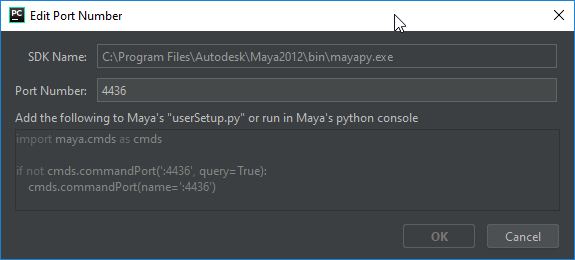
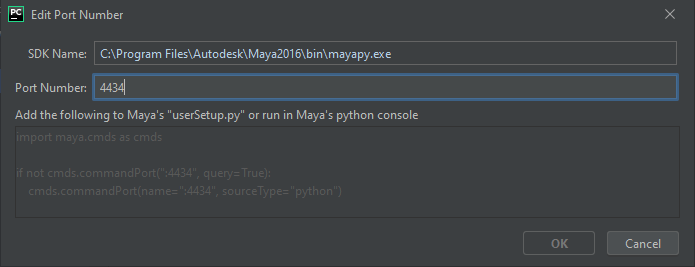
updatrd changelog and readme

diff --git a/src/main/kotlin/resources/PythonStrings.kt b/src/main/kotlin/resources/PythonStrings.kt
@@ -7,7 +7,6 @@ enum class PythonStrings(val message: String) {
     OPEN_LOG("import maya.cmds as cmds;cmds.cmdFileOutput(o=r\"{0}\")"),
     CLOSE_LOG("import maya.cmds as cmds;cmds.cmdFileOutput(closeAll=True)"),
     EXECFILE("__name__ = \"__main__\";exec(open(\"{0}\").read(), globals(), locals())"),
-//    EXECFILE("python(\"execfile (\\\"{0}\\\")\");"),
     PYSTDERR("# Error: "),
     PYSTDWRN("# Warning: "),
     SETTRACE("import pydevd; pydevd.settrace(host=\"{0}\", port={1,number,#}, suspend={2}, stdoutToServer={3}, stderrToServer={3})"),

diff --git a/README.md b/README.md
@@ -9,23 +9,23 @@ https://plugins.jetbrains.com/plugin/8218?pr=pycharm
 
 ## Installation 
 It requires some minimal setup. The settings panel is in `Settings > Other Settings > MayaCharm` here you can define what port numbers
-MayaCharm will talk to your Maya installs on. This is where you also define the default Maya install that the `Execute Documeant In Maya` and `Execute Selection in Maya` actions will be performed on. Currently MayaCharm looks for any `mayapy` interpters you have setup, and uses those to define where your Maya installs are. 
+MayaCharm will talk to your Maya installs on. This is where you also define the default Maya install that the `Execute Documeant In Maya` and `Execute Selection in Maya` actions will be performed on. Currently, MayaCharm looks for any `mayapy` interpreters you have set up, and uses those to define where your Maya installs are. 
 These can be added and removed from the `Project Interpreter` section of the settings panel.
 
 ![MayaCharm Settings Panel](docs/MayaCharm3_Settings.png)
 
 When you edit a port number MayaCharm will also display what code you either need to execute in maya 
-or add to your usersetup.py to open maya up to connections from MayaCharm.
+or add to your `usersetup.py` to open maya up to connections from MayaCharm.
 
 ![MayaCharm Settings Panel](docs/MayaCharm3_EditPort.png)
 
 
 ## Usage
-Once the plugin is installed and setup MayaCharm will be displayed as a type of run configuration. You just need to tell it what Maya instance to connect to, and provide either a python file or some code to be excuted on run. Debugging is no longer supported via the Run Config since it was unreliable but the plugin does allows the regular `Attach to process...` command to regonize maya and attach.
+Once the plugin is installed and setup MayaCharm will be displayed as a type of run configuration. You just need to tell it what Maya instance to connect to, and provide either a python file, or some code to be excuted on run. Debugging is no longer supported via the Run Config since it was unreliable, but the plugin does allows the regular `Attach to process...` command to recognize Maya and attach.
 
 ![MayaCharm Debugger Panel](docs/MayaCharm3_RunConfig.png)
 
-There is also a Execute Selection and a Execute Document actions in the run menu, that can also be accessed via alt+s and alt+a.
-If you just want to attach to a existing Maya process you can use the `Attach to Process...` option in the `Run` menu and Maya instances will now show up in these menu as well as regular python instances.
+There is also a `Execute Selection` and an `Execute Document` actions in the run menu, that can also be accessed via `alt+s` and `alt+a`.
+If you just want to attach to a existing Maya process you can use the `Attach to Process...` option in the `Run` menu and Maya instances will now show up in this menu as well as regular python instances.
 
 ![MayaCharm Attach Dialog](docs/mc_attach_to_proc.png)

diff --git a/CHANGELOG.md b/CHANGELOG.md
@@ -4,6 +4,7 @@
 ### Added
 - Support for PyCharm 2020.3
 ### Modified
+- CommandPort setup, this version will require userSetup.py modifications
 - Updated gradle and build system
 
 ## [3.1.2] - 2020-04-05
